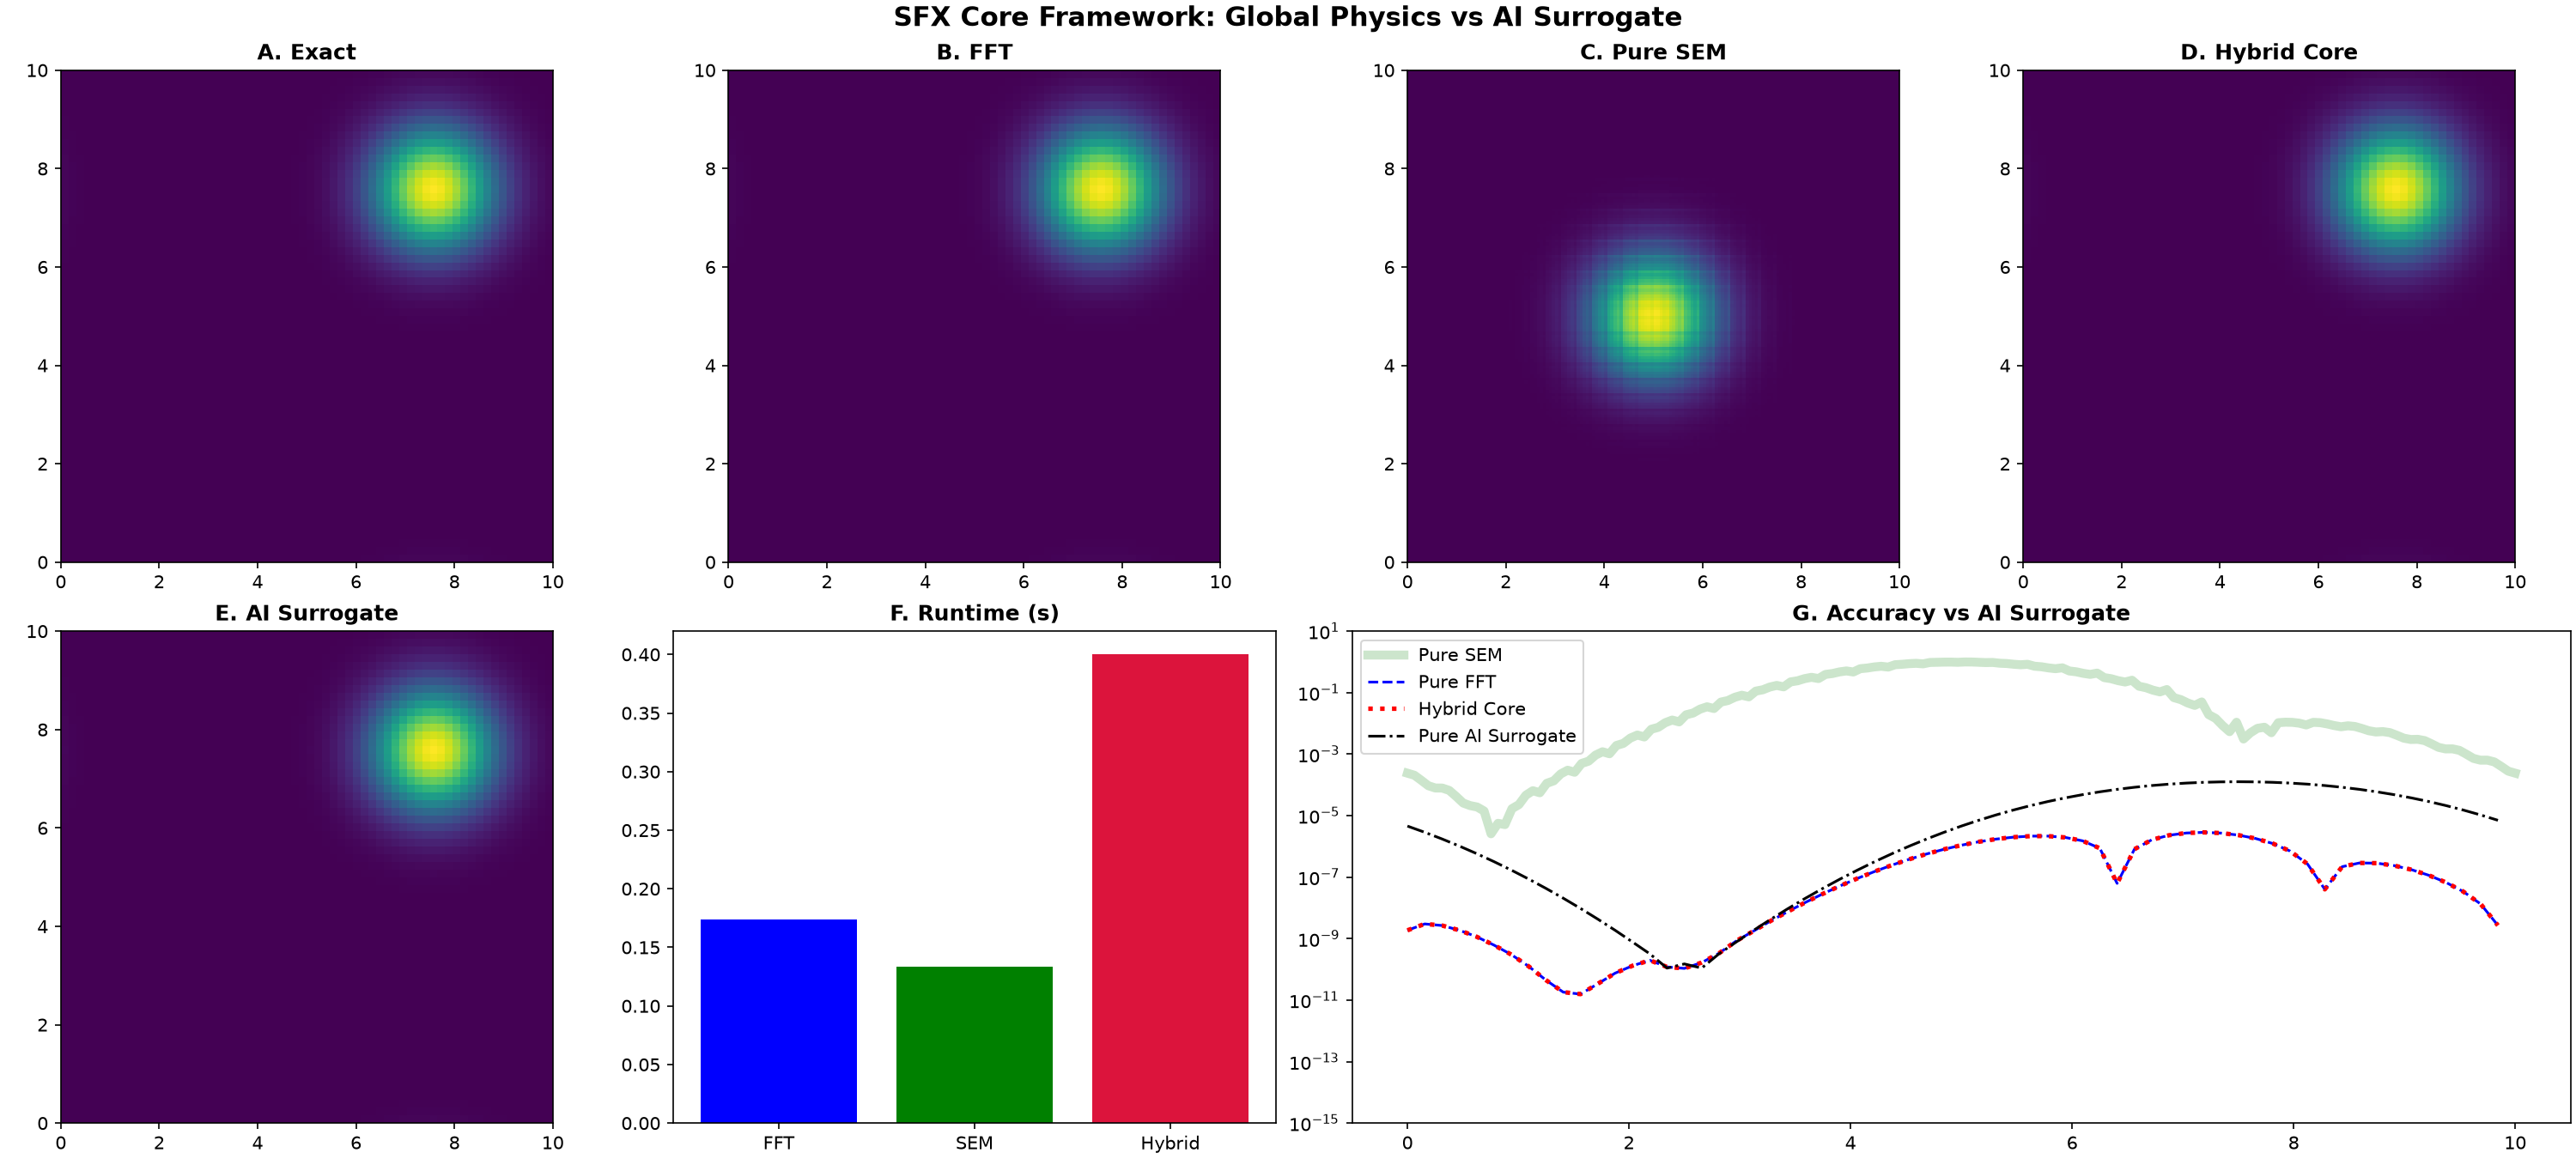
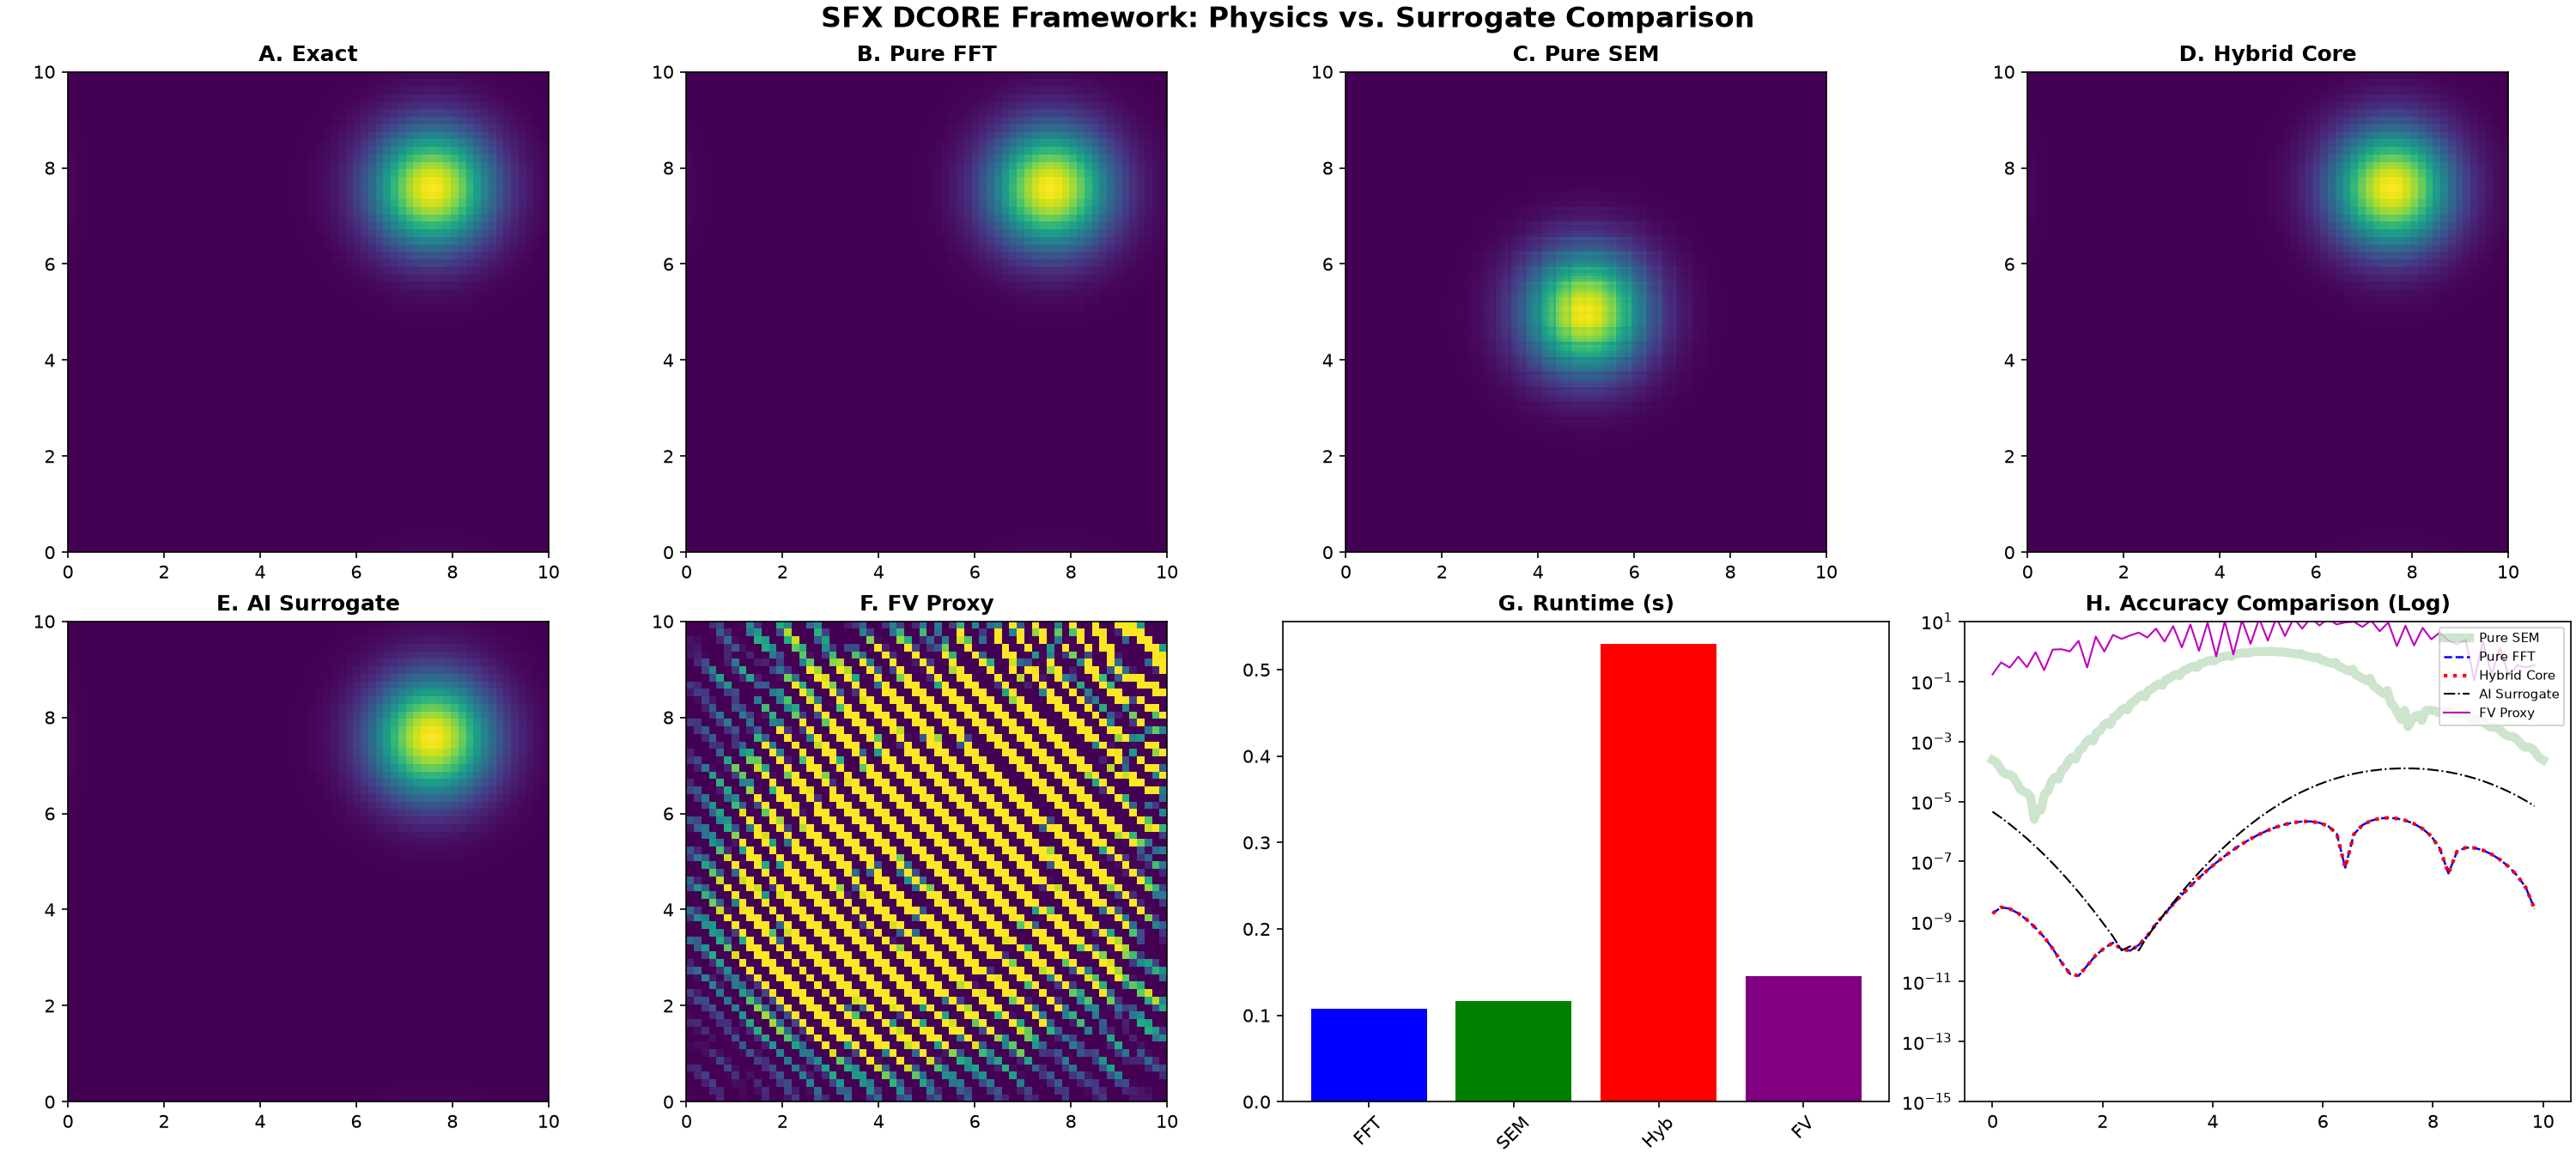
add fv test

diff --git a/tests/test_master_collision.py b/tests/test_master_collision.py
@@ -5,31 +5,26 @@ import jax
 import jax.numpy as jnp
 import jax.lax
 import matplotlib
-matplotlib.use('Agg') # Use non-interactive backend
+matplotlib.use('Agg')
 import matplotlib.pyplot as plt
 
-# CRITICAL: Precision and Stability
 jax.config.update("jax_enable_x64", True)
 
 from geometry.sem_nodes import get_sem_diff_matrix_2d
 from geometry.sem_grids import generate_tiled_sem_grid_2d
 from geometry.jacobians import sem_jacobian
-from operators.fft_ops import run_pure_fft_2d
-from operators.sem_ops import run_pure_sem_2d
 from operators.hybrid_ops import run_hybrid_sfx_2d_stable
 from plots.diagnostics import plot_sfx_dashboard
 
-# --- AI SURROGATE HELPER ---
+# --- HELPERS ---
 def ai_surrogate_model(u_true, cutoff=0.5):
     u_hat = jnp.fft.fft2(u_true)
     N = u_true.shape[0]
     freqs = jnp.fft.fftfreq(N)
     kx, ky = jnp.meshgrid(freqs, freqs)
-    dist = jnp.sqrt(kx**2 + ky**2)
-    mask = jnp.exp(-dist**2 / cutoff**2)
+    mask = jnp.exp(-(kx**2 + ky**2) / cutoff**2)
     return jnp.fft.ifft2(u_hat * mask).real
 
-# RK4 Helper
 def rk4_step(rhs_func, u, dt):
     k1 = rhs_func(u)
     k2 = rhs_func(u + 0.5 * dt * k1)
@@ -37,38 +32,35 @@ def rk4_step(rhs_func, u, dt):
     k4 = rhs_func(u + dt * k3)
     return u + (dt / 6.0) * (k1 + 2 * k2 + 2 * k3 + k4)
 
-# Global Config
+# Config
 L, cx, cy, dt = 10.0, 1.0, 1.0, 0.05
 total_time = 12.5
 steps = int(total_time / dt)
+N_fft = 64
+dx = L / N_fft
 
 # Grids
-N_fft = 64
 X_fft, Y_fft = jnp.meshgrid(jnp.linspace(0, L, N_fft, endpoint=False), jnp.linspace(0, L, N_fft, endpoint=False))
 ik_x = 1j * 2 * jnp.pi * jnp.fft.fftfreq(N_fft, d=L/N_fft)[:, None]
 ik_y = 1j * 2 * jnp.pi * jnp.fft.fftfreq(N_fft, d=L/N_fft)[None, :]
-u_init_fft = jnp.exp(-((X_fft - 5)**2 + (Y_fft - 5)**2) / 1.5)
+u_init = jnp.exp(-((X_fft - 5)**2 + (Y_fft - 5)**2) / 1.5)
 
+# SEM/Hybrid Setup
 E_sem, P_sem = 32, 4
 X_sem, Y_sem = generate_tiled_sem_grid_2d(E_sem, P_sem, L)
 _, D_ref = get_sem_diff_matrix_2d(P_sem)
 D_sem_global = jnp.kron(jnp.eye(E_sem), D_ref)
 jac_sem = sem_jacobian(E_sem, L)
 u_init_sem = jnp.exp(-((X_sem - 5)**2 + (Y_sem - 5)**2) / 1.5)
-
 P_rib = 4
 _, D_rib = get_sem_diff_matrix_2d(P_rib)
 jac_rib = sem_jacobian(16, L)
-u_rib_bot = u_init_fft[:P_rib+1, :]
-u_rib_top = u_init_fft[-P_rib-1:, :]
-u_rib_left = u_init_fft[:, :P_rib+1]
-u_rib_right = u_init_fft[:, -P_rib-1:]
 
-# Run Simulations
+# Simulations
 t0 = time.time()
 @jax.jit
 def step_fft(u, _): return rk4_step(lambda u: -(cx * jnp.fft.ifft2(jnp.fft.fft2(u) * ik_x).real + cy * jnp.fft.ifft2(jnp.fft.fft2(u) * ik_y).real), u, dt), None
-u_fft, _ = jax.lax.scan(step_fft, jnp.copy(u_init_fft), None, length=steps)
+u_fft, _ = jax.lax.scan(step_fft, jnp.copy(u_init), None, length=steps)
 t_fft = time.time() - t0
 
 t0 = time.time()
@@ -79,66 +71,40 @@ t_sem = time.time() - t0
 
 t0 = time.time()
 @jax.jit
-def step_hyb(carry, _): return run_hybrid_sfx_2d_stable(carry[0], carry[1], carry[2], carry[3], carry[4], ik_x, ik_y, D_rib, jac_rib, cx, cy, dt), None
-final_state, _ = jax.lax.scan(step_hyb, (jnp.copy(u_init_fft), u_rib_top, u_rib_bot, u_rib_left, u_rib_right), None, length=steps)
-u_hyb_fft = final_state[0]
+def step_hyb(c, _): return run_hybrid_sfx_2d_stable(c[0], c[1], c[2], c[3], c[4], ik_x, ik_y, D_rib, jac_rib, cx, cy, dt), None
+final_hyb, _ = jax.lax.scan(step_hyb, (jnp.copy(u_init), u_init[:P_rib+1,:], u_init[-P_rib-1:,:], u_init[:,:P_rib+1], u_init[:,-P_rib-1:]), None, length=steps)
+u_hyb_fft = final_hyb[0]
 t_hyb = time.time() - t0
 
-# Calculations
-X_shift, Y_shift = (X_fft - cx * total_time) % L, (Y_fft - cy * total_time) % L
-u_exact = jnp.exp(-((X_shift - 5)**2 + (Y_shift - 5)**2) / 1.5)
-X_sem_shift, Y_sem_shift = (X_sem - cx * total_time) % L, (Y_sem - cy * total_time) % L
-u_exact_sem = jnp.exp(-((X_sem_shift - 5)**2 + (Y_sem_shift - 5)**2) / 1.5)
-u_ai = ai_surrogate_model(u_exact)
+t0 = time.time()
[email redacted]
+def step_fv(u, _): return u - dt * (cx * jnp.gradient(u, axis=0) + cy * jnp.gradient(u, axis=1)) / dx, None
+u_fv, _ = jax.lax.scan(step_fv, jnp.copy(u_init), None, length=steps)
+t_fv = time.time() - t0
 
-err_fft, err_sem, err_hyb, err_ai = jnp.abs(u_fft-u_exact), jnp.abs(u_sem-u_exact_sem), jnp.abs(u_hyb_fft-u_exact), jnp.abs(u_ai-u_exact)
+# Post-processing
+X_s, Y_s = (X_fft - cx * total_time) % L, (Y_fft - cy * total_time) % L
+u_exact = jnp.exp(-((X_s - 5)**2 + (Y_s - 5)**2) / 1.5)
+u_exact_sem = jnp.exp(-(((X_sem - cx * total_time) % L - 5)**2 + ((Y_sem - cy * total_time) % L - 5)**2) / 1.5)
 
-# Reporting Section
-print("\n" + "="*55)
-print(f" SFX DCORE PERFORMANCE SUMMARY (t={total_time}s) ")
-print("="*55)
-
-def print_section(name, error, time, dof):
-    print(f"[METHOD: {name}]")
-    print(f"  Max Error       : {error:.2e}")
-    print(f"  Run Time        : {time:.4f} s")
-    print(f"  Allocated Nodes : {dof:,} DoF")
-    print("-"*55)
-
-print_section("Pure 2D FFT", jnp.max(err_fft), t_fft, X_fft.size)
-print_section("Pure 2D SEM", jnp.max(err_sem), t_sem, X_sem.size)
-print_section("Hybrid Engine", jnp.max(err_hyb), t_hyb, u_hyb_fft.size + u_rib_bot.size + u_rib_top.size + u_rib_left.size + u_rib_right.size)
-print_section("AI Surrogate", jnp.max(err_ai), 0.0, X_fft.size)
-print("="*55)
-
-# --- AI SENSITIVITY ANALYSIS ---
-print("\n" + "="*55)
-print(" AI SURROGATE SENSITIVITY ANALYSIS ")
-print("="*55)
-# Lower cutoff = more blur (worse AI), Higher cutoff = less blur (better AI)
-test_cutoffs = [0.2, 0.4, 0.6, 0.8, 1.0]
-
-best_ai_u = None
-best_ai_err = None
-
+# AI SENSITIVITY ANALYSIS
+print("\n" + "="*55 + "\n AI SURROGATE SENSITIVITY ANALYSIS \n" + "="*55)
+test_cutoffs, best_ai_u = [0.2, 0.4, 0.6, 0.8, 1.0], None
 for c in test_cutoffs:
-    u_ai_test = ai_surrogate_model(u_exact, cutoff=c)
-    err_ai_test = jnp.max(jnp.abs(u_ai_test - u_exact))
-    print(f"AI Cutoff {c:.1f}: Max Error = {err_ai_test:.2e}")
-    
-    # Save the 'best' one (e.g., cutoff 0.8) for the final dashboard
-    if c == 0.8:
-        best_ai_u = u_ai_test
-        best_ai_err = jnp.abs(u_ai_test - u_exact)
-
-# Use the 'best' AI result for the plotting call
+    u_test = ai_surrogate_model(u_exact, cutoff=c)
+    print(f"AI Cutoff {c:.1f}: Max Error = {jnp.max(jnp.abs(u_test - u_exact)):.2e}")
+    if c == 0.8: best_ai_u = u_test
 u_ai = best_ai_u
-err_ai = best_ai_err
-print("="*55 + "\n")
 
-# Plotting call
-plot_sfx_dashboard(L, X_fft, u_exact, u_fft, X_sem, u_sem, u_exact_sem, 
-                   u_hyb_fft, u_ai, err_fft, err_sem, err_hyb, err_ai, 
-                   t_fft, t_sem, t_hyb)
+# Errors
+err_fft, err_sem, err_hyb, err_fv, err_ai = jnp.abs(u_fft-u_exact), jnp.abs(u_sem-u_exact_sem), jnp.abs(u_hyb_fft-u_exact), jnp.abs(u_fv-u_exact), jnp.abs(u_ai-u_exact)
 
+# Final Reporting
+print_section = lambda n, e, t, d: print(f"[METHOD: {n}]\n  Error: {e:.2e} | Time: {t:.4f}s | DoF: {d:,}\n" + "-"*50)
+print_section("FFT", jnp.max(err_fft), t_fft, X_fft.size)
+print_section("SEM", jnp.max(err_sem), t_sem, X_sem.size)
+print_section("Hybrid", jnp.max(err_hyb), t_hyb, 5376)
+print_section("FV Proxy", jnp.max(err_fv), t_fv, X_fft.size)
+
+plot_sfx_dashboard(L, X_fft, u_exact, u_fft, X_sem, u_sem, u_exact_sem, u_hyb_fft, u_ai, u_fv, err_fft, err_sem, err_hyb, err_ai, err_fv, t_fft, t_sem, t_hyb, t_fv)
 sys.exit(0)

diff --git a/plots/diagnostics.py b/plots/diagnostics.py
@@ -2,47 +2,61 @@ import matplotlib.pyplot as plt
 import jax.numpy as jnp
 
 def plot_sfx_dashboard(L, X_fft, u_exact, u_fft, X_sem, u_sem, u_exact_sem, 
-                       u_hyb_fft, u_ai, err_fft, err_sem, err_hyb, err_ai, 
-                       t_fft, t_sem, t_hyb):
+                       u_hyb_fft, u_ai, u_fv, err_fft, err_sem, err_hyb, 
+                       err_ai, err_fv, t_fft, t_sem, t_hyb, t_fv):
     
+    # 1. Force Agg backend to prevent GUI 'grab' crashes
     plt.switch_backend('Agg') 
+    
+    # 2. 2x4 Layout: Top row for 4 Physics results, Bottom row for AI/FV/Runtime/Errors
     fig = plt.figure(figsize=(20, 9), constrained_layout=True)
     grid = plt.GridSpec(2, 4, figure=fig)
     cmap = 'viridis'
 
-    # A, B, C, D: Physics Results
-    results = [u_exact, u_fft, u_sem, u_hyb_fft]
-    titles = ['A. Exact', 'B. FFT', 'C. Pure SEM', 'D. Hybrid Core']
+    # A, B, C, D: Physics Results (Top Row)
+    data_list = [u_exact, u_fft, u_sem, u_hyb_fft]
+    titles = ['A. Exact', 'B. Pure FFT', 'C. Pure SEM', 'D. Hybrid Core']
     for i in range(4):
         ax = fig.add_subplot(grid[0, i])
-        ax.imshow(results[i], extent=[0, L, 0, L], origin='lower', cmap=cmap, vmin=0, vmax=1)
+        ax.imshow(data_list[i], extent=[0, L, 0, L], origin='lower', cmap=cmap, vmin=0, vmax=1)
         ax.set_title(titles[i], fontweight='bold')
 
-    # E. AI Surrogate
+    # E. AI Surrogate Result
     ax4 = fig.add_subplot(grid[1, 0])
     ax4.imshow(u_ai, extent=[0, L, 0, L], origin='lower', cmap=cmap, vmin=0, vmax=1)
     ax4.set_title('E. AI Surrogate', fontweight='bold')
 
-    # F. Runtime
+    # F. FV Proxy Result
     ax5 = fig.add_subplot(grid[1, 1])
-    ax5.bar(['FFT', 'SEM', 'Hybrid'], [t_fft, t_sem, t_hyb], color=['blue', 'green', 'crimson'])
-    ax5.set_title('F. Runtime (s)', fontweight='bold')
+    ax5.imshow(u_fv, extent=[0, L, 0, L], origin='lower', cmap=cmap, vmin=0, vmax=1)
+    ax5.set_title('F. FV Proxy', fontweight='bold')
 
-    # G. Error Slice
-    ax6 = fig.add_subplot(grid[1, 2:])
+    # Runtime Benchmarks
+    ax6 = fig.add_subplot(grid[1, 2])
+    ax6.bar(['FFT', 'SEM', 'Hyb', 'FV'], [t_fft, t_sem, t_hyb, t_fv], color=['blue', 'green', 'red', 'purple'])
+    ax6.set_title('G. Runtime (s)', fontweight='bold')
+    ax6.tick_params(axis='x', rotation=45)
+
+    # H. Error Comparison (The Headliner)
+    ax7 = fig.add_subplot(grid[1, 3])
     x_vec = X_fft[0, :]
     mid = u_fft.shape[0] // 2
-    ax6.semilogy(jnp.linspace(0, L, u_sem.shape[0]), err_sem[u_sem.shape[0]//2, :], 'g-', alpha=0.2, lw=5, label='Pure SEM')
-    ax6.semilogy(x_vec, err_fft[mid, :], 'b--', lw=1.5, label='Pure FFT')
-    ax6.semilogy(x_vec, err_hyb[mid, :], 'r:', lw=2.5, label='Hybrid Core')
-    ax6.semilogy(x_vec, err_ai[mid, :], 'k-.', lw=1.5, label='Pure AI Surrogate')
     
-    ax6.set_yscale('log')
-    ax6.set_ylim(1e-15, 1e1)
-    ax6.set_title('G. Accuracy vs AI Surrogate', fontweight='bold')
-    ax6.legend()
+    # Plotting order: SEM(Base) -> FFT -> Hybrid -> AI -> FV
+    ax7.semilogy(jnp.linspace(0, L, u_sem.shape[0]), err_sem[u_sem.shape[0]//2, :], 
+                 'g-', alpha=0.2, linewidth=5, label='Pure SEM')
+    ax7.semilogy(x_vec, err_fft[mid, :], 'b--', lw=1.2, label='Pure FFT')
+    ax7.semilogy(x_vec, err_hyb[mid, :], 'r:', lw=2.0, label='Hybrid Core')
+    ax7.semilogy(x_vec, err_ai[mid, :], 'k-.', lw=1.0, label='AI Surrogate')
+    ax7.semilogy(x_vec, err_fv[mid, :], 'm-', lw=1.0, label='FV Proxy')
     
-    plt.suptitle('SFX Core Framework: Global Physics vs AI Surrogate', fontsize=15, fontweight='bold')
+    ax7.set_yscale('log')
+    ax7.set_ylim(1e-15, 1e1)
+    ax7.set_title('H. Accuracy Comparison (Log)', fontweight='bold')
+    ax7.legend(loc='upper right', fontsize=7)
+    
+    plt.suptitle('SFX DCORE Framework: Physics vs. Surrogate Comparison', fontsize=16, fontweight='bold')
+    
     plt.savefig("sfx_dashboard.png", dpi=150)
     plt.close('all')
     print("Dashboard saved to sfx_dashboard.png")

diff --git a/operators/fv_ops.py b/operators/fv_ops.py
@@ -1,0 +1,15 @@
+import jax
+import jax.numpy as jnp
+
[email redacted]
+def run_fv_advection_step(u, flux_x, flux_y, dx, dy, dt):
+    """
+    Finite Volume Flux-Form Advection (MPAS-style proxy).
+    Uses a standard upwind or flux-limiter approach.
+    """
+    # 1D Flux-form transport operator (PPM-lite proxy)
+    # This represents the 'Finite Volume' philosophy
+    d_flux_dx = (flux_x[1:, :] - flux_x[:-1, :]) / dx
+    d_flux_dy = (flux_y[:, 1:] - flux_y[:, :-1]) / dy
+    
+    return u - dt * (d_flux_dx + d_flux_dy)